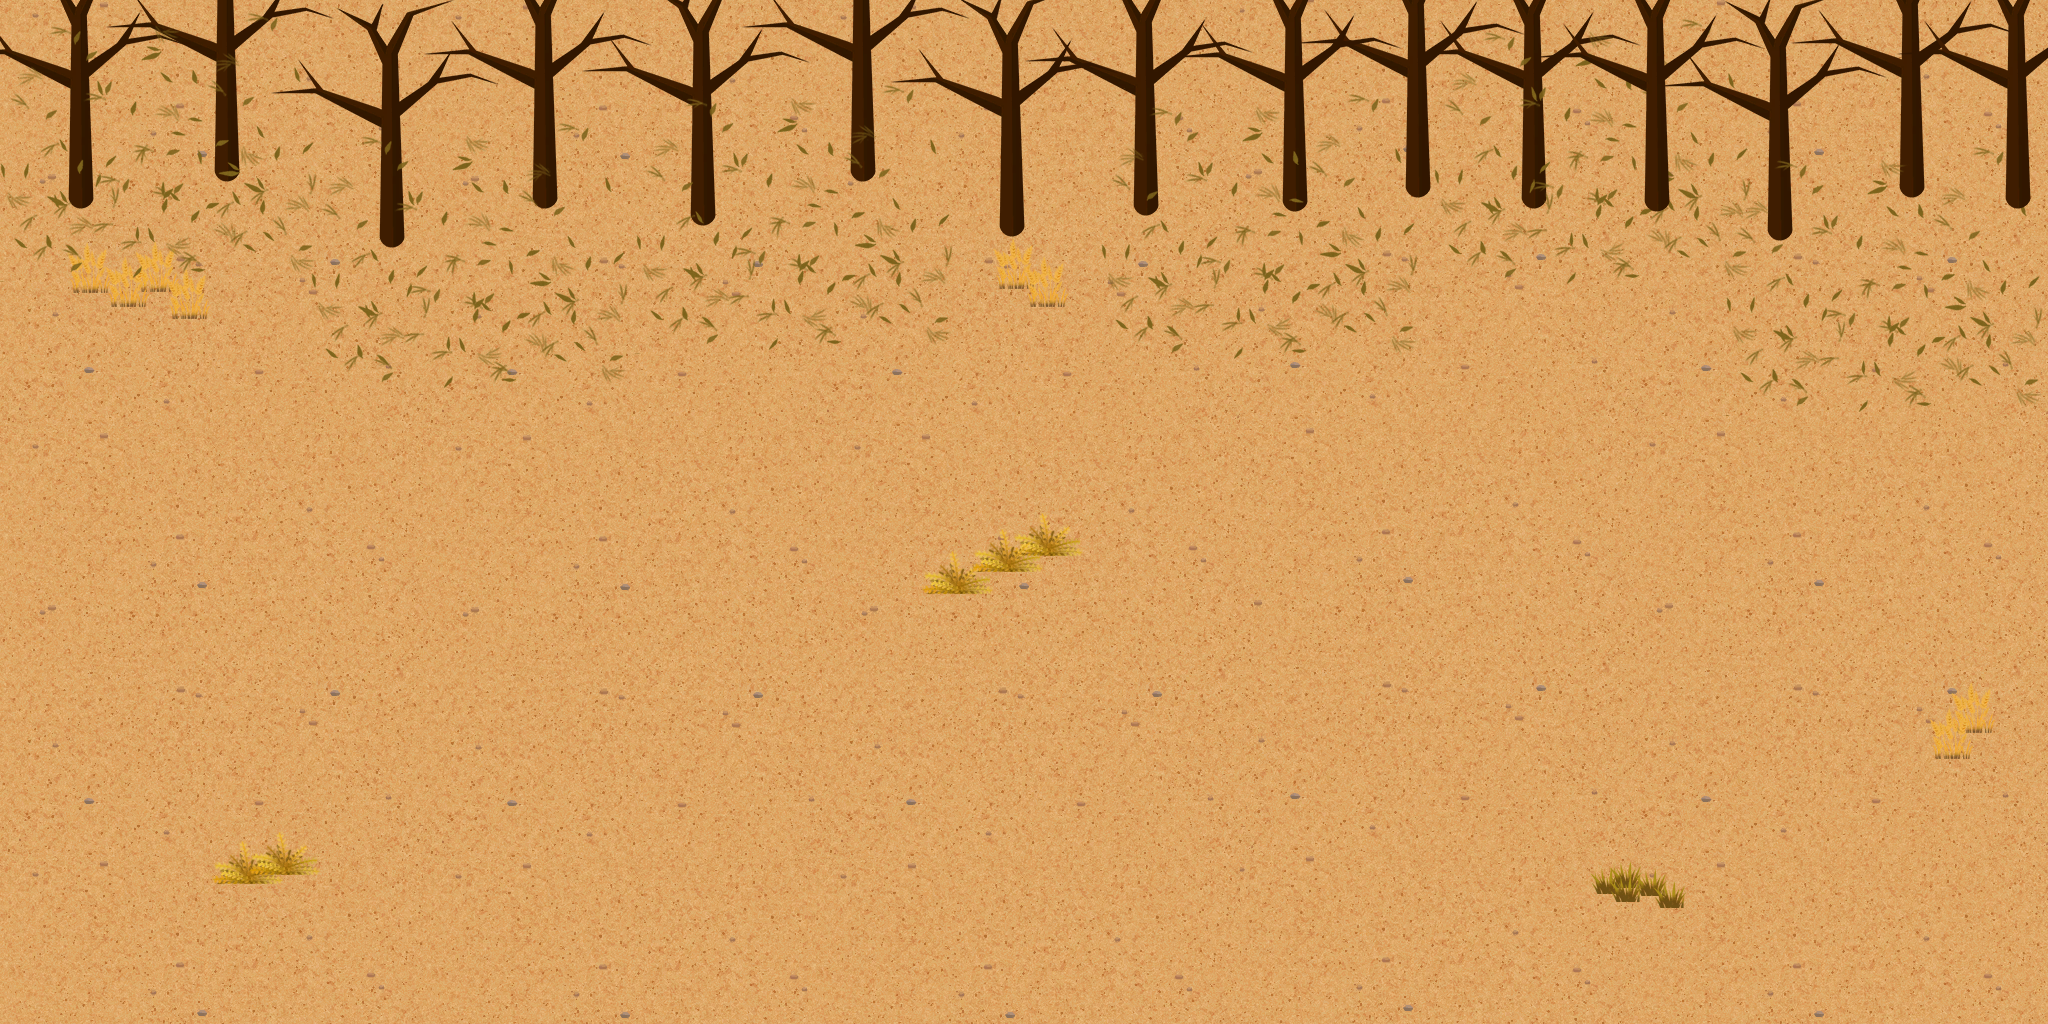
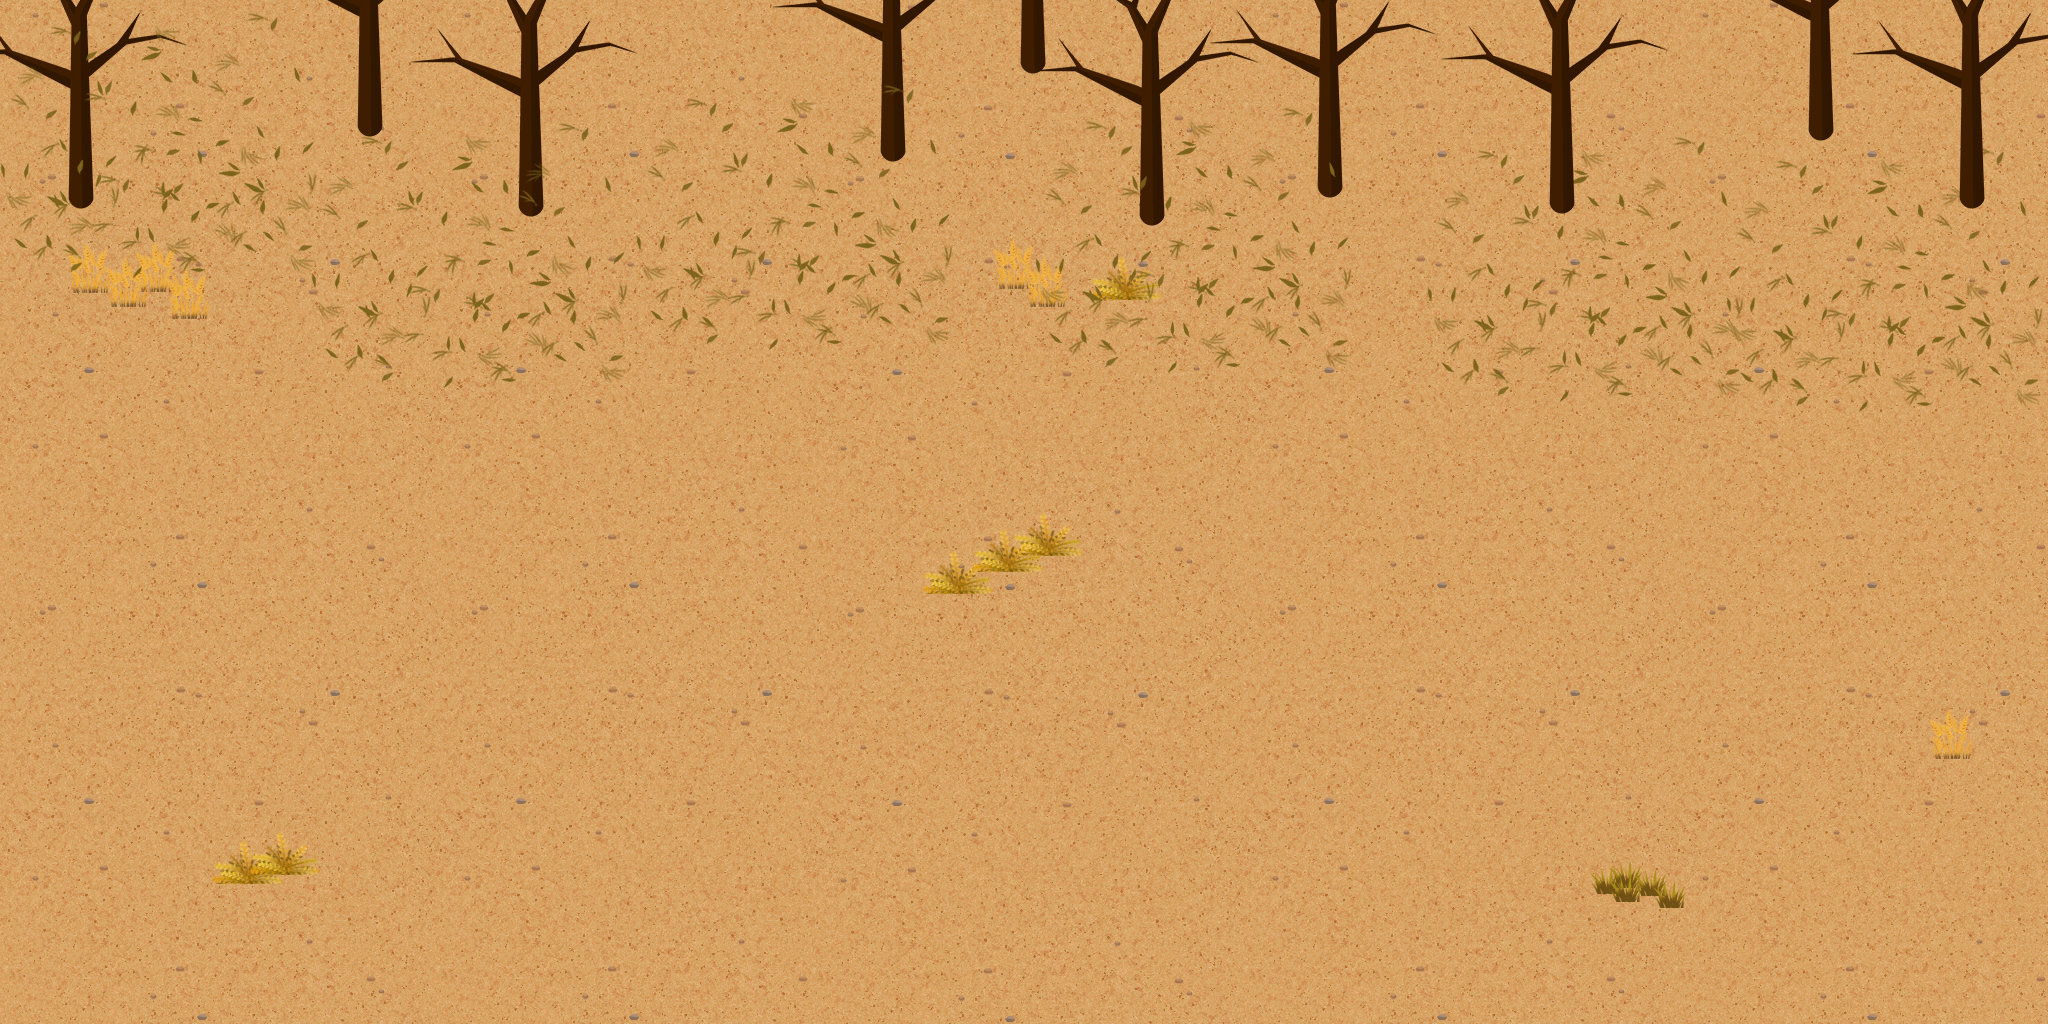
完成BOSS關卡場景

diff --git a/src/sence/MapScene.java b/src/sence/MapScene.java
@@ -24,6 +24,7 @@ import static util.Global.*;
 import weapon.Bullet;
 import object.GameObject;
 import util.CommandSolver;
+import weapon.Gun;
 
 public class MapScene extends Scene {
     private ArrayList<GameObject> mapObjArr;
@@ -218,6 +219,9 @@ public class MapScene extends Scene {
                 listenerMouseY = e.getY();
                 gameActor.getCurrentGun().beginShoot();
                 shooting = true;
+                if(gameActor.getCurrentGun().getGunType() == Gun.GunType.MACHINE_GUN){
+                    gameActor.setMoveSpeed(gameActor.getCurrentGun().getGunType().getMoveSpeed()/2);
+                }
             }
 
             if (shooting && state == CommandSolver.MouseState.DRAGGED) {
@@ -234,6 +238,9 @@ public class MapScene extends Scene {
                                         mouseX, mouseY,
                                         gameActor.getCurrentGun().getGunType()));
                     }
+                }
+                if(gameActor.getCurrentGun().getGunType() == Gun.GunType.MACHINE_GUN){
+                    gameActor.setMoveSpeed(gameActor.getCurrentGun().getGunType().getMoveSpeed());
                 }
                 shootCount = 0;
 
@@ -280,16 +287,15 @@ public class MapScene extends Scene {
     }
 
     public void mapInit() {
-        mapObjArr = new MapObjController.Builder().setBmpAndTxt("changeMap.bmp", "changeMap.txt")
+        mapObjArr = new MapObjController.Builder().setBmpAndTxt("genMap.bmp", "genMap.txt")
                 //.setNameAndPath("bananastatue", "/map/banana.png", true, new GameObjForPic("/map/banana.png", 0, 156, 168, 256))
 //                .setNameAndPath("tree1", "/map/tree1-208-336.png", true, new GameObjForPic("/map/tree1-208-336.png", 0, 0, 208, 336))
 //                .setNameAndPath("tree2", "/map/tree2-208-336.png", true, new GameObjForPic("/map/tree2-208-336.png", 0, 0, 208, 336))
 //                .setNameAndPath("tree3", "/map/tree3-208-336.png", true, new GameObjForPic("/map/tree3-208-336.png", 0, 0, 208, 336))
 //                .setNameAndPath("rock1", "/map/rock-sand1-424-216.png", true, new GameObjForPic("/map/rock-sand1-424-216.png", 0, 50, 425, 212))
-
+                
                 .gen()
                 .setMap();
-
     }
 
     private class mapInfo {
@@ -307,7 +313,7 @@ public class MapScene extends Scene {
         private boolean back;
 
         private mapInfo() {
-            mapLeft = ImageController.getInstance().tryGet(MapPath.CHANGE.mapPath);
+            mapLeft = ImageController.getInstance().tryGet(MapPath.DESERT.mapPath);
             mapMiddle = ImageController.getInstance().tryGet(MapPath.DESERT.mapPath);
             mapRight = ImageController.getInstance().tryGet(MapPath.END.mapPath);
             this.count = 0;
@@ -316,7 +322,6 @@ public class MapScene extends Scene {
             thirdStage = false;
             finalStage = false;
             back = false;
-
         }
 
         public void mapPaint(Graphics g) {
@@ -349,6 +354,20 @@ public class MapScene extends Scene {
     }
 }
 
+//開場地圖物件
+//.setNameAndPath("bananastatue", "/map/banana.png", true, new GameObjForPic("/map/banana.png", 0, 156, 168, 256))
+//                .setNameAndPath("tree1", "/map/tree1-208-336.png", true, new GameObjForPic("/map/tree1-208-336.png", 0, 0, 208, 336))
+//                .setNameAndPath("tree2", "/map/tree2-208-336.png", true, new GameObjForPic("/map/tree2-208-336.png", 0, 0, 208, 336))
+//                .setNameAndPath("tree3", "/map/tree3-208-336.png", true, new GameObjForPic("/map/tree3-208-336.png", 0, 0, 208, 336))
+//                .setNameAndPath("
+
+//森林地圖物件
+//                .setNameAndPath("tree1", "/map/tree1-208-336.png", true, new GameObjForPic("/map/tree1-208-336.png", 0, 0, 208, 336))
+//                .setNameAndPath("tree2", "/map/tree2-208-336.png", true, new GameObjForPic("/map/tree2-208-336.png", 0, 0, 208, 336))
+//                .setNameAndPath("tree3", "/map/tree3-208-336.png", true, new GameObjForPic("/map/tree3-208-336.png", 0, 0, 208, 336))
+//                .setNameAndPath("rock1", "/map/rock-sand1-424-216.png", true, new GameObjForPic("/map/rock-sand1-424-216.png", 0, 50, 425, 212))
+//                //.setNameAndPath("rock2", "/map/rock-sand1-584-216.png", false, null)
+
 //過場地圖物件
 //                .setNameAndPath("changetree1","/map/change-tree1(268-272).png",true,new GameObjForPic("/map/change-tree1(268-272).png", 0, 0, 268, 272))
 //                        .setNameAndPath("changetree2","/map/change-tree1(242-271).png",true,new GameObjForPic("/map/change-tree1(242-271).png", 0, 0, 242, 272))
@@ -359,3 +378,16 @@ public class MapScene extends Scene {
 //                        .setNameAndPath("sandbag2","/map/sandbag2(288-80).png",true,new GameObjForPic("/map/sandbag2(288-80).png", 0, 0, 288, 80))
 //                        .setNameAndPath("rocko1","/map/rocko(208-136).png",true,new GameObjForPic("/map/rocko(208-136).png", 0, 0, 208, 136))
 ////                .setNameAndPath("rocko2","/map/rocko(208-120).png",true,new GameObjForPic("/map/rocko(208-120).png", 0, 0, 208, 120))
+
+//BOSS場景
+//                .setNameAndPath("farmhay","/map/farm_hay(184-144).png",true,new GameObjForPic("/map/farm_hay(184-144).png", 0, 0, 184, 144))
+//                        .setNameAndPath("farmhay2","/map/farmhay(72-160).png",true,new GameObjForPic("/map/farmhay(72-160).png", 0, 0, 72, 160))
+//                        .setNameAndPath("signright","/map/signRight(152-104).png",true,new GameObjForPic("/map/signRight(152-104).png", 0, -150, 152, 104))
+//                        .setNameAndPath("warmsign","/map/warmsign(240-160).png",true,new GameObjForPic("/map/warmsign(240-160).png", 0, -150, 240, 160))
+//                        .setNameAndPath("verticlawall1","/map/vertical_wall(24-216).png",true,new GameObjForPic("/map/vertical_wall(24-216).png", 0, 0, 32, 216))
+//                        .setNameAndPath("verticalwall2","/map/vertical_wall2(24-216).png",true,new GameObjForPic("/map/vertical_wall2(24-216).png", 0, 0, 32, 216))
+//                        .setNameAndPath("wall1","/map/horizontal_wall(176-96).png",true,new GameObjForPic("/map/horizontal_wall(176-96).png", 0, 0, 176, 96))
+//                        .setNameAndPath("wall2","/map/horizontal_wall(288-96).png",true,new GameObjForPic("/map/horizontal_wall(288-96).png", 0, 0, 288, 96))
+//                        .setNameAndPath("wall3","/map/horizontal_wall(304-96).png",true,new GameObjForPic("/map/horizontal_wall(304-96).png", 0, 0, 304, 96))
+//                        .setNameAndPath("oasis1","/map/oasis_tree (232-400).png",true,new GameObjForPic("/map/oasis_tree (232-400).png", 110, 0, 200, 400))
+//                        .setNameAndPath("oasis2","/map/oasis_tree2(232-400).png",true,new GameObjForPic("/map/oasis_tree2(232-400).png", 130, 0, 232, 400))

diff --git a/src/weapon/Gun.java b/src/weapon/Gun.java
@@ -51,9 +51,9 @@ public class Gun extends GameObjForAnimator {
     public enum GunType {
         PISTOL("/weapon/pistol.png", "/actor/pistol3.png",76, 32,28,42, Integer.MAX_VALUE, 15, 15, 60, 0,5),
         UZI("/weapon/uzi.png", "/actor/uzi3.png",70, 54,29,44, 360, 40, 7, 60, 5,4),
-        AK("/weapon/ak.png", "/actor/ak3.png",70, 54,53,56, 360, 30, 10, 90, 10,3),
-        SNIPER("/weapon/sniper.png", "/actor/sniper3.png",70, 54,66,60, 30, 10, 60, 120, 10,2),
-        MACHINE_GUN("/weapon/machine.png", "/actor/machine3.png",70, 54,62,62, 500, 100, 5, 180, 60,1);
+        AK("/weapon/ak.png", "/actor/ak3.png",70, 54,53,56, 360, 30, 10, 90, 10,4),
+        SNIPER("/weapon/sniper.png", "/actor/sniper3.png",70, 54,66,60, 30, 10, 60, 100, 10,2),
+        MACHINE_GUN("/weapon/machine.png", "/actor/machine3.png",70, 54,62,62, 500, 100, 5, 150, 45,2);
 
 
         public String forMapPath;

diff --git a/src/object/actor/GameActor.java b/src/object/actor/GameActor.java
@@ -65,6 +65,10 @@ public class GameActor extends GameObjForAnimator {
         }
     }
 
+    public void setMoveSpeed(int moveSpeed){
+        this.moveSpeed = moveSpeed;
+    }
+
     @Override
     public void changeDir(int mouseX) {
         if (mouseX > painter().centerX()) {

diff --git a/src/util/Global.java b/src/util/Global.java
@@ -20,7 +20,7 @@ public class Global {
 
     //地圖大小
     public static final int MAP_WIDTH = 4096*5;
-    public static final int MAP_HEIGHT = 1024;
+    public static final int MAP_HEIGHT = 1024*2;
     public static final int MAP_UNIT_WIDTH = 4096;
 
     //視窗大小
